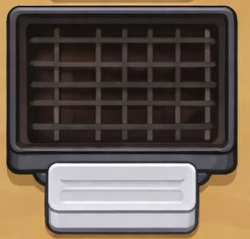
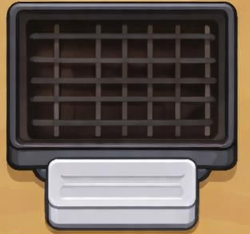
update todo, add wincon, change bg, clean up grill.png

diff --git a/src/game/scenes/Game2.js b/src/game/scenes/Game2.js
@@ -1,5 +1,5 @@
 import { Scene } from 'phaser';
-import { setupClickCounter } from './logic/GameHeader.js';
+import { checkWinCondition } from './logic/winCondition.js';
 
 const NUM_COLUMNS = 3;
 const NUM_ROWS = 4;
@@ -25,13 +25,6 @@ export class Game extends Scene {
 
         // Set sizes based on viewport dimensions
         TARGET_SIZE = baseWidth * 0.8; // Target size is 80% of base width
-        DRAGGABLE_WIDTH = baseWidth * 0.7; // Draggable width is 70% of base width
-        DRAGGABLE_HEIGHT = TARGET_SIZE * 1.2; // Make draggable height 120% of target size
-
-
-
-        // Setup input click counter and behavior
-        setupClickCounter(this);
 
         const viewportWidth = this.game.config.width; // Example viewport width
         const viewportHeight = this.game.config.height; // Example viewport height
@@ -49,9 +42,9 @@ export class Game extends Scene {
         // const offsetY = 100; // Vertical offset between rows
         const SNAPPING_DISTANCE = cellWidth; // 5% of target size for snapping
 
-        console.log("viewportWidth: ", viewportWidth, "viewportHeight: ", viewportHeight);
-        console.log("cellWidth: ", cellWidth, "cellHeight: ", cellHeight);
-        console.log("width ratio: ", viewportWidth / cellWidth, "height ratio: ", viewportHeight / cellHeight);
+        // console.log("viewportWidth: ", viewportWidth, "viewportHeight: ", viewportHeight);
+        // console.log("cellWidth: ", cellWidth, "cellHeight: ", cellHeight);
+        // console.log("width ratio: ", viewportWidth / cellWidth, "height ratio: ", viewportHeight / cellHeight);
 
         for (let row = 0; row < rows; row++) {
             for (let col = 0; col < columns; col++) {
@@ -62,13 +55,13 @@ export class Game extends Scene {
                 const y = row * cellHeight + (offsetY * (row + 1));
 
                 // Add the coordinate to the array
-                coordinates.push({ x: x, y: y, item: false });
+                coordinates.push({ x: x, y: y, occupied: false, type: 'empty' });
                 // console.log('for loop: ', 'row: ', row, 'col: ', col, 'x: ', x, 'y: ', y);
             }
         }
 
-        console.log("Generated Coordinate[2]: ", coordinates[2].x, coordinates[2].y);
-        console.log(coordinates);
+        // console.log("Generated Coordinate[2]: ", coordinates[2].x, coordinates[2].y);
+        // console.log(coordinates);
         // Create target objects in a grid
         for (let i = 1; i < coordinates.length; i += 3) {
             const coord = coordinates[i];
@@ -89,17 +82,22 @@ export class Game extends Scene {
             // Skip creating the skewer based on the random number
             if (randomNum < probabilityThreshold) {
                 return; // Skip this iteration
-            }else{
-            const skewer = this.physics.add.sprite(coord.x, coord.y, 'skewer');
-            // skewer.setOrigin(0);
-            skewer.setInteractive();
-            skewer.index= coordinates.indexOf(coord); // Store the index of the coordinate in the skewer
-            this.input.setDraggable(skewer);
-            coord.item = true; // Associate the skewer with the coordinate
-            console.log('SKEWER')
-            console.log('skewer index: ', skewer.index);
+            } else {
+                const skewer = this.physics.add.sprite(coord.x, coord.y, 'skewer');
+                // skewer.setOrigin(0);
+                skewer.setInteractive();
+                const spriteWidth = skewer.width;
+                const aspectRatio = skewer.height / spriteWidth;
+                skewer.setDisplaySize(cellWidth, cellWidth * aspectRatio);
+                // skewer.setDisplaySize(cellWidth * 0.8, cellHeight * 0.8); // Set skewer size relative to cell size
+                skewer.index = coordinates.indexOf(coord); // Store the index of the coordinate in the skewer
+                this.input.setDraggable(skewer);
+                coord.occupied = true; // Associate the skewer with the coordinate
+                coord.type = skewer.texture.key; // Store the type of skewer in the coordinate for win condition checking
+                // console.log('SKEWER')
+                // console.log('skewer index: ', skewer.index);
 
-            draggableObjects.push(skewer);
+                draggableObjects.push(skewer);
             }
         });
 
@@ -109,56 +107,57 @@ export class Game extends Scene {
             skewer.y = dragY;
         });
 
-this.input.on('dragstart', (pointer, skewer) => {
-    // Store the original position of the skewer when dragging starts
-    skewer.originalX = skewer.x;
-    skewer.originalY = skewer.y;
-});
+        this.input.on('dragstart', (pointer, skewer) => {
+            // Store the original position of the skewer when dragging starts
+            skewer.originalX = skewer.x;
+            skewer.originalY = skewer.y;
+        });
 
-this.input.on('dragend', (pointer, skewer) => {
-    console.log(skewer.texture.key);
-    let snapped = false; // Flag to check if snapping occurred
-    let final = null; // Variable to store the target that was snapped to
-    
-    // Use find() to get first eligible target and break immediately
-    const targetCoord = coordinates.find((target, index) => {
-        // Skip the current coordinate where this skewer already is
-        if (index === skewer.index) {
-            return false;
-        }
-        
-        const distance = Phaser.Math.Distance.Between(skewer.x, skewer.y, target.x, target.y);
-        
-        // Check if within snapping distance
-        if (distance < SNAPPING_DISTANCE) {
-            // Check if target is already occupied
-            if (target.item) {
-                console.log("Target " + index + " already occupied!Continue to check if overlapping with empty target.");
+        this.input.on('dragend', (pointer, skewer) => {
+            console.log(skewer.texture.key);
+            let snapped = false; // Flag to check if snapping occurred
+            let final = null; // Variable to store the target that was snapped to
+
+            // Use find() to get first eligible target and break immediately
+            const targetCoord = coordinates.find((target, index) => {
+                // Skip the current coordinate where this skewer already is
+                if (index === skewer.index) {
+                    return false;
+                }
+
+                const distance = Phaser.Math.Distance.Between(skewer.x, skewer.y, target.x, target.y);
+
+                // Check if within snapping distance
+                if (distance < SNAPPING_DISTANCE) {
+                    // Check if target is already occupied
+                    if (target.occupied) {
+                        console.log("Target " + index + " already occupied!Continue to check if overlapping with empty target.");
+                        return false; // Continue searching
+                    }
+                    // Found valid target
+                    console.log("Snapped to target " + index);
+                    snapped = true;
+                    final = index;
+                    return true; // Stop searching
+                }
+                // console.log("failed to snap to target " + index);
                 return false; // Continue searching
+            });
+
+            // If snapping occurred, update positions and state
+            if (snapped) {
+                skewer.x = targetCoord.x;
+                skewer.y = targetCoord.y;
+                coordinates[skewer.index].occupied = false; // Clear previous coordinate
+                coordinates[final].occupied = true; // Mark new coordinate as occupied
+                skewer.index = final; // Update skewer's index
+                checkWinCondition(coordinates);
+            } else {
+                // Return skewer to original position if no valid snap found
+                skewer.x = skewer.originalX;
+                skewer.y = skewer.originalY;
             }
-            // Found valid target
-            console.log("Snapped to target " + index);
-            snapped = true;
-            final = index;
-            return true; // Stop searching
-        }
-        console.log("failed to snap to target " + index);
-        return false; // Continue searching
-    });
-    
-    // If snapping occurred, update positions and state
-    if (snapped) {
-        skewer.x = targetCoord.x;
-        skewer.y = targetCoord.y;
-        coordinates[skewer.index].item = false; // Clear previous coordinate
-        coordinates[final].item = true; // Mark new coordinate as occupied
-        skewer.index = final; // Update skewer's index
-    } else {
-        // Return skewer to original position if no valid snap found
-        skewer.x = skewer.originalX;
-        skewer.y = skewer.originalY;
-    }
-});
+        });
 
 
     }

diff --git a/src/game/scenes/Preloader.js b/src/game/scenes/Preloader.js
@@ -10,8 +10,8 @@ export class Preloader extends Scene
     init ()
     {
         //  We loaded this image in our Boot Scene, so we can display it here
-        const bg = this.add.image(this.cameras.main.centerX, this.cameras.main.centerY, 'background');
-        bg.setDisplaySize(this.cameras.main.width, this.cameras.main.height);
+        // const bg = this.add.image(this.cameras.main.centerX, this.cameras.main.centerY, 'background').setAlpha(0.5);
+        // bg.setDisplaySize(this.cameras.main.width, this.cameras.main.height);
 
         //  A simple progress bar. This is the outline of the bar.
         this.add.rectangle(this.cameras.main.centerX, this.cameras.main.centerY, 468, 32).setStrokeStyle(1, 0xffffff);

diff --git a/src/game/scenes/MainMenu.js b/src/game/scenes/MainMenu.js
@@ -9,8 +9,8 @@ export class MainMenu extends Scene
 
     create ()
     {
-        const bg = this.add.image(this.cameras.main.centerX, this.cameras.main.centerY, 'background');
-        bg.setDisplaySize(this.cameras.main.width, this.cameras.main.height);
+        // const bg = this.add.image(this.cameras.main.centerX, this.cameras.main.centerY, 'background').setAlpha(0.15);
+        // bg.setDisplaySize(this.cameras.main.width, this.cameras.main.height);
 
         this.add.image(this.cameras.main.centerX, this.cameras.main.centerY-100, 'logo');
 

diff --git a/src/game/main.js b/src/game/main.js
@@ -17,7 +17,8 @@ const config = {
     width: window.innerWidth,  // Use full viewport width
     height: 1.5 * window.innerWidth,  // Maintain a 2:3 aspect ratio based on width
     parent: 'game-container',
-    backgroundColor: '#028af8',
+    backgroundColor: '#d0a364',
+    // backgroundColor: '#028af8',
     physics: {
         default: 'arcade',
         arcade: {

diff --git a/src/game/scenes/logic/winCondition.js b/src/game/scenes/logic/winCondition.js
@@ -1,0 +1,5 @@
+export function checkWinCondition(coordinates) {
+    // Check if all skewers are in the correct positions
+    console.log("Checking win condition...");
+    return false
+}

diff --git a/todo.md b/todo.md
@@ -1,7 +1,12 @@
-march 2:
-    1. try very basic render of grid of grills (don't need to interact with)
-    2. then render skewers (should be able to move then snap into place with 1/3 slots available on grill)
-    3. then use update() to load next grill
+march 3.1:
+-check winCon
+    -only need to check nearby locality of the snapped index
+    -coordinates array is basically the game state array
+-spawn new skewers
+    -standardize png resolution (auto gen pixel art?)
+    -best way to load assets?
+-add menu
+-difficulty generator
 
 march 3:
 -its possible to make sprites check if they've collided with a target position
@@ -22,3 +27,7 @@ march 3:
     -keep each round either 2-3mins
     -but change number of types of skewers and total number of targets
         -targets need to be active or in-active states
+march 2:
+    1. try very basic render of grid of grills (don't need to interact with)
+    2. then render skewers (should be able to move then snap into place with 1/3 slots available on grill)
+    3. then use update() to load next grill
